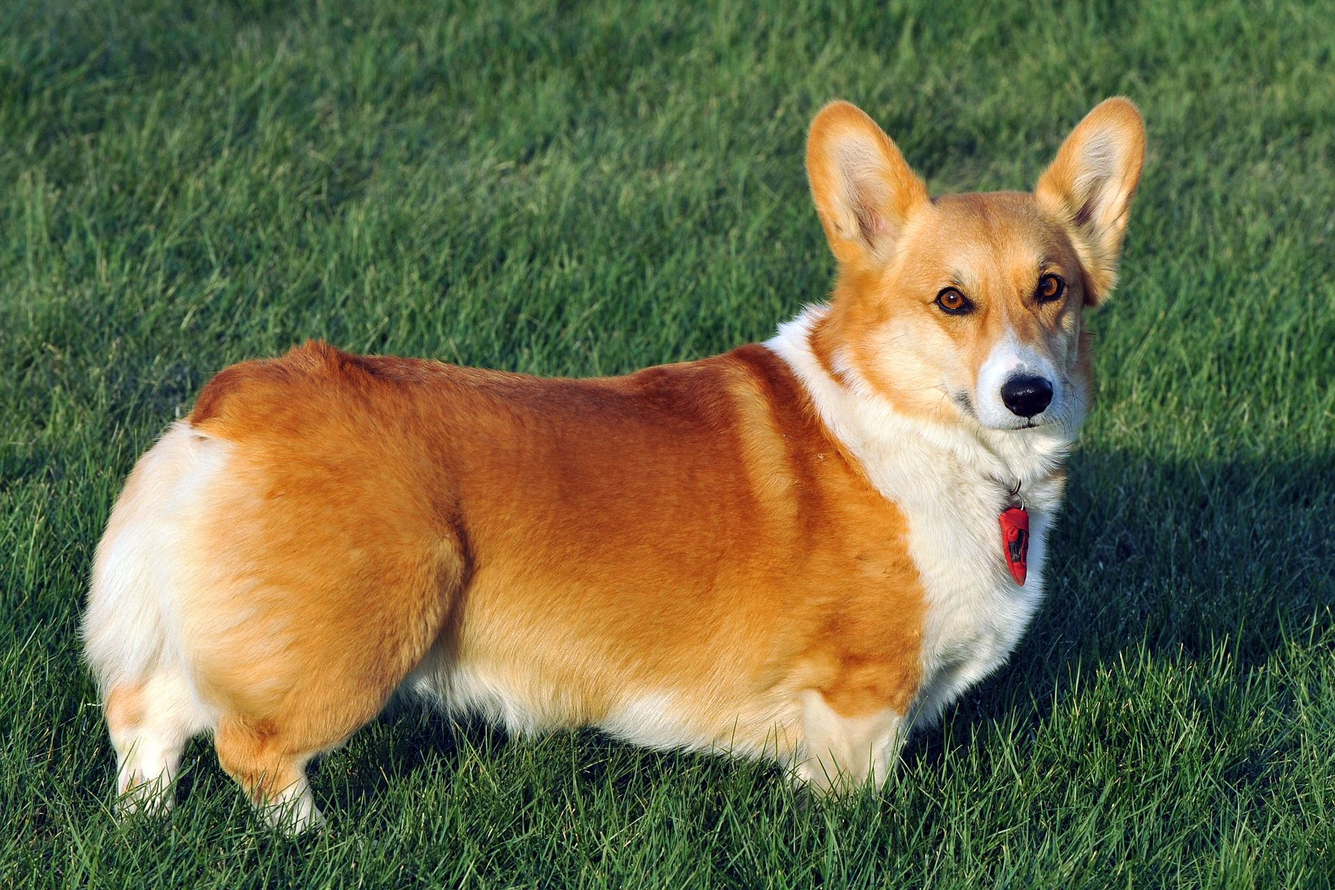
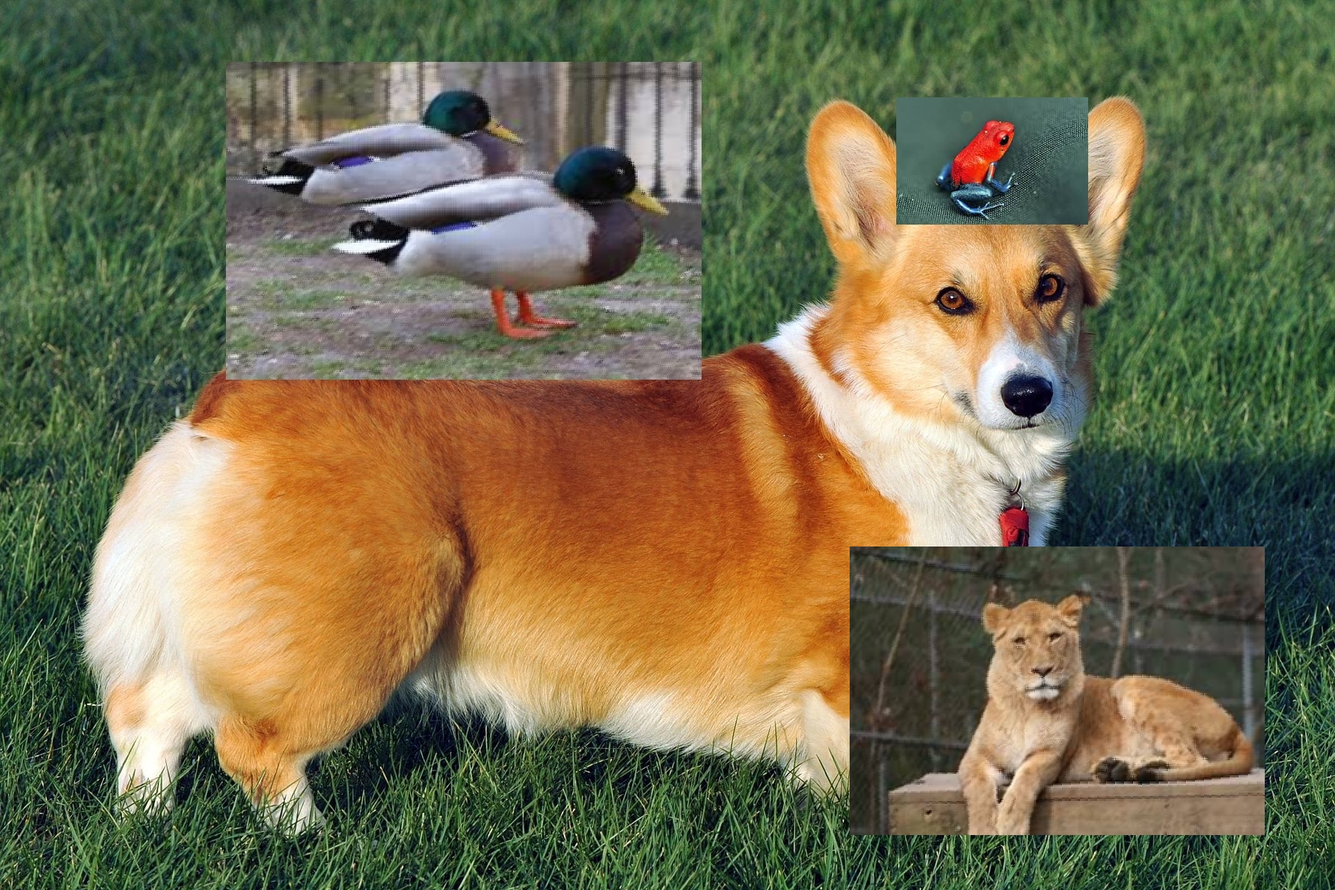
Good job making animals

Changed region(s): [[0.1562, 0.0625, 0.5312, 0.4375], [0.625, 0.5938, 0.9688, 0.9375], [0.6562, 0.0938, 0.8125, 0.25]]

diff --git a/Week06/InheritanceIntro/InheritanceIntro/MainWindow.xaml b/Week06/InheritanceIntro/InheritanceIntro/MainWindow.xaml
@@ -10,5 +10,8 @@
         <Image Source="dog.jpg" Width="700"/>
         <Button Click="Bark_Button_Click">Bark</Button>
         <Button Click="SayName_Button_Click">Say Name</Button>
+        <Button x:Name="QuackButton" Click="QuackButton_Click">Quack</Button>
+        <Button Name="RibbetButton" Click="RibbitButton_Click">Ribbit</Button>
+        <Button Name="RoarButton" Click="RoarButton_Click">Roar</Button>
     </StackPanel>
 </Window>

diff --git a/Week06/InheritanceIntro/InheritanceIntro/MainWindow.xaml.cs b/Week06/InheritanceIntro/InheritanceIntro/MainWindow.xaml.cs
@@ -49,6 +49,33 @@ namespace InheritanceIntro
             {
                 d.SayName();
             }
+
+            Duck duck1 = new Duck(15, "Kyle");
+            duck1.SayName();
+
+            Frog frog1 = new Frog(10, "Kermit", true);
+            frog1.SayName();
+
+            Lion lion1 = new Lion(60, "Nala", false);
+            lion1.SayName();
+        }
+
+        private void QuackButton_Click(object sender, RoutedEventArgs e)
+        {
+            Duck duck = new Duck();
+            duck.Quack();
+        }
+
+        private void RibbitButton_Click(object sender, RoutedEventArgs e)
+        {
+            Frog frog = new Frog();
+            frog.Ribbit();
+        }
+
+        private void RoarButton_Click(object sender, RoutedEventArgs e)
+        {
+            Lion lion = new Lion();
+            lion.Roar();
         }
     }
 }

diff --git a/Week06/InheritanceIntro/InheritanceIntro/Lion.cs b/Week06/InheritanceIntro/InheritanceIntro/Lion.cs
@@ -7,21 +7,21 @@ using System.Windows;
 
 namespace InheritanceIntro
 {
-    public class Dog :  Animal
+    public class Lion : Animal
     {
-        
-        public void Bark()
-        {
-            MessageBox.Show("Bark");
-        }
+        public bool Mane;
 
-        public Dog() { }
+        public Lion () { }
 
-        public Dog(string breed, int height, string name)
+        public Lion(int height, string name, bool mane)
         {
-            this.Breed = breed;
             this.Height = height;
             this.Name = name;
+            this.Mane = mane;
+        }
+        public void Roar()
+        {
+            MessageBox.Show("ROAR");
         }
     }
 }

diff --git a/Week06/InheritanceIntro/InheritanceIntro/Duck.cs b/Week06/InheritanceIntro/InheritanceIntro/Duck.cs
@@ -7,21 +7,19 @@ using System.Windows;
 
 namespace InheritanceIntro
 {
-    public class Dog :  Animal
+    public class Duck : Animal
     {
-        
-        public void Bark()
-        {
-            MessageBox.Show("Bark");
-        }
+        public Duck() { }
 
-        public Dog() { }
-
-        public Dog(string breed, int height, string name)
+        public Duck(int height, string name)
         {
-            this.Breed = breed;
             this.Height = height;
             this.Name = name;
         }
+        public void Quack()
+        {
+            MessageBox.Show("Quack");
+        }
+    
     }
 }

diff --git a/Week06/InheritanceIntro/InheritanceIntro/Frog.cs b/Week06/InheritanceIntro/InheritanceIntro/Frog.cs
@@ -1,0 +1,27 @@
+using System;
+using System.Collections.Generic;
+using System.Linq;
+using System.Text;
+using System.Threading.Tasks;
+using System.Windows;
+
+namespace InheritanceIntro
+{
+    public class Frog : Animal
+    {
+        public bool Poisonous;
+
+        public Frog () { }
+
+        public Frog(int height, string name, bool poisonous)
+        {
+            this.Height = height;
+            this.Name = name;
+            this.Poisonous = poisonous;
+        }
+        public void Ribbit()
+        {
+            MessageBox.Show("Ribbit");
+        }
+    }
+}

diff --git a/Week06/InheritanceIntro/InheritanceIntro/Animal.cs b/Week06/InheritanceIntro/InheritanceIntro/Animal.cs
@@ -1,0 +1,22 @@
+using System;
+using System.Collections.Generic;
+using System.Linq;
+using System.Text;
+using System.Threading.Tasks;
+using System.Windows;
+
+namespace InheritanceIntro
+{
+   public class Animal : Organism
+    {
+        public string Name;
+        public string Breed;
+
+        public void SayName()
+        {
+            MessageBox.Show("My name is " + this.Name);
+        }
+
+        public Animal() { }
+    }
+}

diff --git a/Week06/InheritanceIntro/InheritanceIntro/Tree.cs b/Week06/InheritanceIntro/InheritanceIntro/Tree.cs
@@ -1,0 +1,19 @@
+using System;
+using System.Collections.Generic;
+using System.Linq;
+using System.Text;
+using System.Threading.Tasks;
+
+namespace InheritanceIntro
+{
+    public class Tree : Organism
+    {
+        public string TypeOfTree;
+        public string LeafColor;
+
+        public Tree () { }
+
+        public Tree(int height, string dna)
+
+    }
+}

diff --git a/Week06/InheritanceIntro/InheritanceIntro/Organism.cs b/Week06/InheritanceIntro/InheritanceIntro/Organism.cs
@@ -1,0 +1,17 @@
+using System;
+using System.Collections.Generic;
+using System.Linq;
+using System.Text;
+using System.Threading.Tasks;
+
+namespace InheritanceIntro
+{
+    public class Organism
+    {
+        public string DNA;
+        public string TypeOfOrganism;
+        public int Height;
+
+        public Organism() { }
+    }
+}
